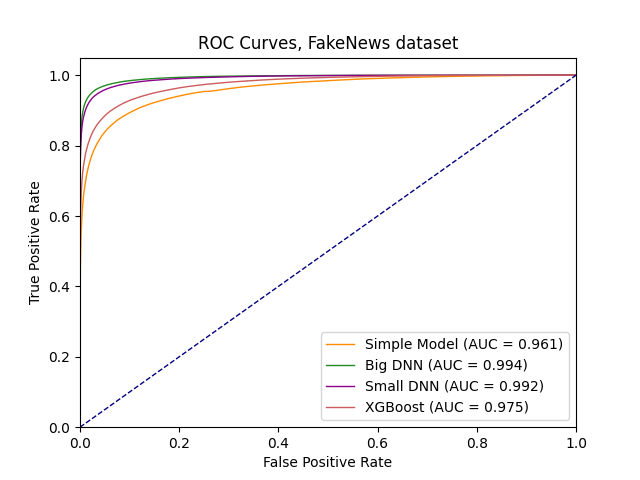
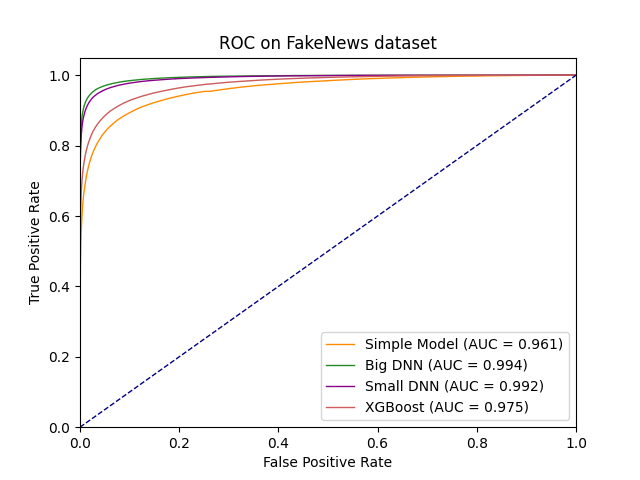
added final ROC_curve figure

Changed region(s): [[0.3125, 0.0625, 0.7188, 0.125]]

diff --git a/make_ROC_fakenews.py b/make_ROC_fakenews.py
@@ -68,7 +68,7 @@ plt.xlim([0.0, 1.0])
 plt.ylim([0.0, 1.05])
 plt.xlabel('False Positive Rate')
 plt.ylabel('True Positive Rate')
-plt.title('ROC Curves, FakeNews dataset')
+plt.title('ROC on FakeNews dataset')
 plt.legend(loc="lower right")
 plt.savefig('report/src/figures/ROC_curves_fakenews.png')
 
